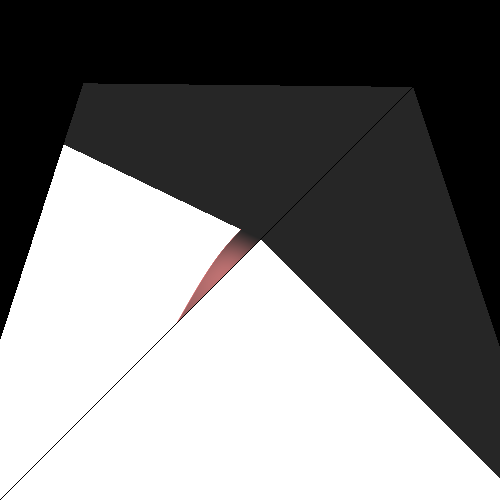
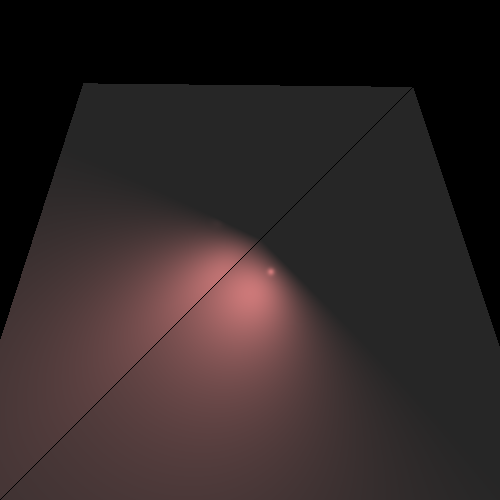
exercise 6 part 2 fix

diff --git a/src/geometries/Polygon.java b/src/geometries/Polygon.java
@@ -1,7 +1,9 @@
 package geometries;
 
 import java.util.List;
+
 import primitives.*;
+
 import static primitives.Util.*;
 
 /**
@@ -92,31 +94,30 @@ public class Polygon extends Geometry {
     @Override
     public List<GeoPoint> findGeoIntersections(Ray ray) {
 
-        List<GeoPoint> planeGeoIntersections= plane.findGeoIntersections(ray);
-        Point3D p0=ray.getP0();
+        List<GeoPoint> planeGeoIntersections = plane.findGeoIntersections(ray);
+        Point3D p0 = ray.getP0();
         Vector V;
-        Vector v1,v2,v3,v4,n1,n2,n3;
+        Vector v1, v2, v3, v4, n1, n2, n3;
 
         //only if the ray intersects the plane that the polygon is included in
         // check if the intersection point is in the polygon
-        if(planeGeoIntersections==null) {
+        if (planeGeoIntersections == null) {
             return null;
-        }
-        else{
-            V=(planeGeoIntersections.get(0).point).subtract(p0);
+        } else {
+            V = (planeGeoIntersections.get(0).point).subtract(p0);
             //Vi is the edges of the pyramid that the polygon is the bases of and the ray's head is the vertex of
             //Ni is the normals to each side of the pyramid
             //checks if each Ni*Vi have the same sign
             v1 = (vertices.get(0)).subtract(p0);
             v2 = (vertices.get(1)).subtract(p0);
-            n1=(v1.crossProduct(v2)).normalize();
-            for(int i=0;i<vertices.size()-2;i++) {
+            n1 = (v1.crossProduct(v2)).normalize();
+            for (int i = 0; i < vertices.size() - 2; i++) {
                 v3 = (vertices.get(i + 2)).subtract(p0);
                 n2 = (v2.crossProduct(v3)).normalize();
 
-                if (i== vertices.size()-3){
-                    v4=(vertices.get(vertices.size()-1)).subtract(p0);
-                    n3=(v4.crossProduct((vertices.get(0)).subtract(p0))).normalize();
+                if (i == vertices.size() - 3) {
+                    v4 = (vertices.get(vertices.size() - 1)).subtract(p0);
+                    n3 = (v4.crossProduct((vertices.get(0)).subtract(p0))).normalize();
                     if (!checkSign(V.dotProduct(n2), V.dotProduct(n3))) {
                         return null;
                     }
@@ -124,14 +125,14 @@ public class Polygon extends Geometry {
                 if (!checkSign(V.dotProduct(n1), V.dotProduct(n2))) {
                     return null;
                 }
-                if (isZero(V.dotProduct(n1))||isZero(V.dotProduct(n2))) {
+                if (isZero(V.dotProduct(n1)) || isZero(V.dotProduct(n2))) {
                     return null;
                 }
-                v1=v2;
-                v2=v3;
-                n1=n2;
+                v1 = v2;
+                v2 = v3;
+                n1 = n2;
             }
-            return List.of(new GeoPoint(this,planeGeoIntersections.get(0).point));
-            }
+            return List.of(new GeoPoint(this, planeGeoIntersections.get(0).point));
+        }
     }
 }

diff --git a/src/geometries/Triangle.java b/src/geometries/Triangle.java
@@ -1,18 +1,30 @@
 package geometries;
 
 import primitives.Point3D;
+import primitives.Ray;
 import primitives.Vector;
+
+import java.util.List;
 
 public class Triangle extends Polygon{
 
     /**
      * constructor that gets points and build the triangle
-     * @param vertices points (has to be 3 points)
+     *
+     * @param p1
+     * @param p2
+     * @param p3
      */
-    public Triangle(Point3D... vertices) {
-        super(vertices);
-        if(vertices.length!=3)
-            throw new IllegalArgumentException("number of vertices is wrong (has to be 3)");
+    public Triangle(Point3D p1, Point3D p2, Point3D p3) {
+        super(p1, p2, p3);
+    }
+
+    @Override
+    public List<GeoPoint> findGeoIntersections(Ray ray) {
+        List<GeoPoint> geoPointList = super.findGeoIntersections(ray);
+        if(geoPointList == null)
+            return null;
+        return List.of(new GeoPoint(this, geoPointList.get(0).point));
     }
 
     @Override

diff --git a/src/elements/PointLight.java b/src/elements/PointLight.java
@@ -7,9 +7,9 @@ import primitives.Vector;
 public class PointLight extends Light implements LightSource {
 
     private final Point3D _position;
-    private double _Kc =1;
-    private double _Kl =0;
-    private double _Kq =0;
+    private double _Kc = 1;
+    private double _Kl = 0;
+    private double _Kq = 0;
 
     public double getKc() {
         return _Kc;
@@ -45,9 +45,9 @@ public class PointLight extends Light implements LightSource {
 
     @Override
     public Color getIntensity(Point3D point3D) {
-        double d= point3D.distance(_position);
-        double attenuationFactor=1d/(_Kc+_Kl*d+_Kq*d*d);
-        return getIntensity().scale(attenuationFactor);
+        double d = point3D.distance(_position);
+        double attenuationFactor = _Kc + _Kl * d + _Kq * d * d;
+        return getIntensity().reduce(attenuationFactor);
     }
 
     @Override

diff --git a/src/renderer/BasicRayTracer.java b/src/renderer/BasicRayTracer.java
@@ -74,12 +74,12 @@ public class BasicRayTracer extends RayTracerBase {
     }
 
     private Color calcSpecular(double ks, Vector l, Vector n, Vector v, int nShininess, Color lightIntensity) {
-        Vector r=l.subtract(n.scale(2*(l.dotProduct(l))));
-        double minusVR=v.scale(-1).dotProduct(r);
-        return lightIntensity.scale(ks*Math.max(0,Math.pow(minusVR,nShininess)));
+        Vector r = l.subtract(n.scale(2 * (l.dotProduct(n))));
+        double minusVR = v.scale(-1).dotProduct(r);
+        return lightIntensity.scale(ks * Math.max(0, Math.pow(minusVR, nShininess)));
     }
 
     private Color calcDiffusive(double kd, Vector l, Vector n, Color lightIntensity) {
-        return lightIntensity.scale(kd*Math.abs(l.dotProduct(n)));
+        return lightIntensity.scale(kd * Math.abs(l.dotProduct(n)));
     }
 }

diff --git a/src/primitives/Color.java b/src/primitives/Color.java
@@ -17,16 +17,7 @@ public class Color {
     private final double g;
     private final double b;
 
-    public static final Color BLACK = new Color();
-
-    /**
-     * Default constructor - to generate Black Color (privately)
-     */
-    private Color() {
-        r=0.0;
-        g=0.0;
-        b=0.0;
-    }
+    public static final Color BLACK = new Color(0,0,0);
 
     /**
      * Constructor to generate a color according to RGB components Each component in
@@ -42,17 +33,6 @@ public class Color {
         this.r = r;
         this.g = g;
         this.b = b;
-    }
-
-    /**
-     * Copy constructor for Color
-     *
-     * @param other the source color
-     */
-    public Color(Color other) {
-        r = other.r;
-        g = other.g;
-        b = other.b;
     }
 
     /**

diff --git a/src/elements/SpotLight.java b/src/elements/SpotLight.java
@@ -2,6 +2,7 @@ package elements;
 
 import primitives.Color;
 import primitives.Point3D;
+import primitives.Util;
 import primitives.Vector;
 
 public class SpotLight extends PointLight implements LightSource{
@@ -15,8 +16,13 @@ public class SpotLight extends PointLight implements LightSource{
 
     @Override
     public Color getIntensity(Point3D point3D) {
-        Vector l = getL(point3D);
+        Vector l = super.getL(point3D);
         Color intensity = super.getIntensity(point3D);
-        return intensity.scale(Math.max(0,l.dotProduct(centerDirection)));
+        return intensity.scale(Math.max(0, Util.alignZero(l.dotProduct(centerDirection))));
+    }
+
+    @Override
+    public  Vector getL(Point3D point3D) {
+        return super.getL(point3D);
     }
 }

diff --git a/src/scene/Scene.java b/src/scene/Scene.java
@@ -38,7 +38,6 @@ public class Scene {
      */
     public Scene(String name) {
         _name = name;
-        geometries = new Geometries();
     }
 
     /**
@@ -58,6 +57,16 @@ public class Scene {
      */
     public Scene setAmbientLight(AmbientLight ambientLight) {
         this.ambientLight = ambientLight;
+        return this;
+    }
+
+    public Scene setLights(List<LightSource> lightSource) {
+        this.lights = lightSource;
+        return this;
+    }
+
+    public Scene setGeometries(Geometries geometries) {
+        this.geometries = geometries;
         return this;
     }
 }

diff --git a/src/geometries/Intersectable.java b/src/geometries/Intersectable.java
@@ -20,7 +20,7 @@ public interface Intersectable {
             if (this == o) return true;
             if (o == null || getClass() != o.getClass()) return false;
             GeoPoint geoPoint = (GeoPoint) o;
-            return geometry.equals(geoPoint.geometry) && point.equals(geoPoint.point);
+            return geometry == geoPoint.geometry && point.equals(geoPoint.point);
         }
     }
 

diff --git a/src/geometries/Plane.java b/src/geometries/Plane.java
@@ -97,7 +97,7 @@ public class Plane extends Geometry {
 
         //if there is an intersection point
         if (t > 0) {
-            Point3D iP = p0.add(V.scale(t));
+            Point3D iP = ray.getPoint(t);
             return List.of(new GeoPoint(this,iP));
         } else {
             return null;

diff --git a/src/geometries/Geometry.java b/src/geometries/Geometry.java
@@ -4,7 +4,7 @@ import primitives.*;
 
 public abstract class Geometry implements Intersectable {
     protected Color _emission=Color.BLACK;
-    protected Material _material=new Material();
+    private Material _material=new Material();
 
     public Color get_emission() {
         return _emission;

diff --git a/tests/primitives/RayTest.java b/tests/primitives/RayTest.java
@@ -40,4 +40,9 @@ public class RayTest {
         points.add(new Point3D(1,0,0));
         assertEquals(new Point3D(1,0,0),ray.getClosestPoint(points),"getClosestPoint() last point");
     }
+
+    @Test
+    void getGeoColsestPointTest(){
+
+    }
 }

diff --git a/src/geometries/Cylinder.java b/src/geometries/Cylinder.java
@@ -41,7 +41,7 @@ public class Cylinder extends Tube{
     }
 
     @Override
-    public List<Point3D> findIntersections(Ray ray) {
+    public List<GeoPoint> findGeoIntersections(Ray ray) {
         return null;
     }
 
